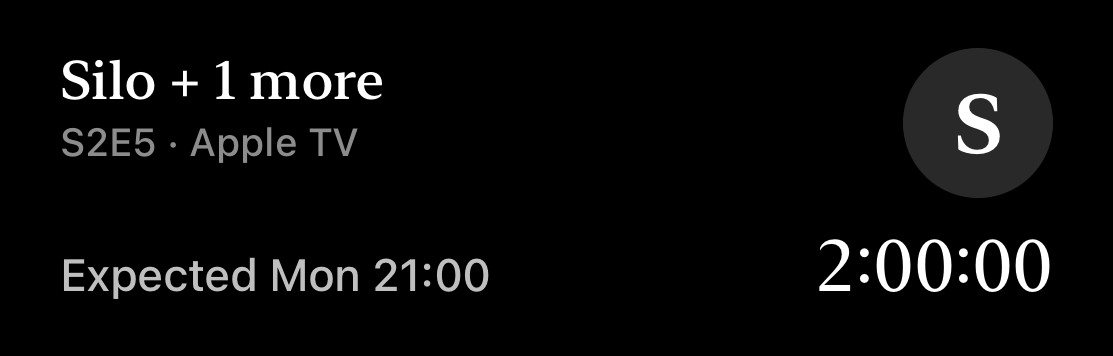
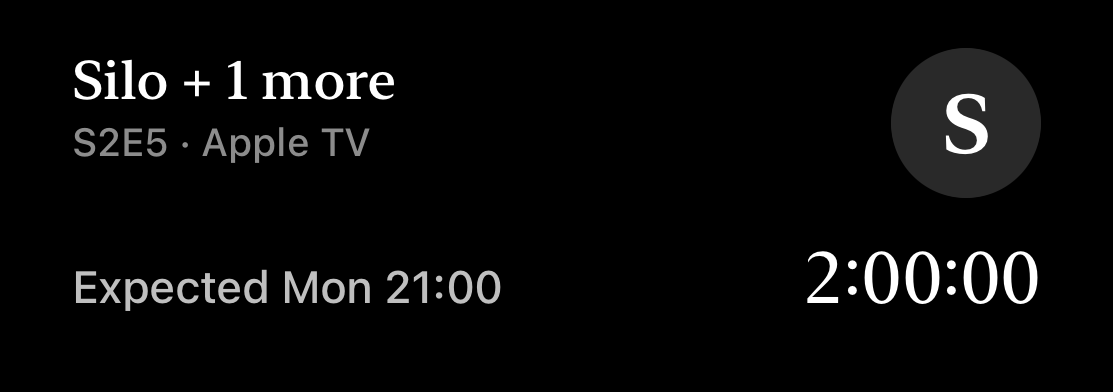
fix: the expanded island's bottom line lines up with the title and art; renders keep a clock that can't pass
Chime's iPhone showed the time and countdown 12 pt inside the title and art: the bottom region was inset 16 pt, the
top regions 4. The insets now live in LiveActivityExpandedView, all 4 pt, so the renders use them too.

The renders' fixed clock (2026-11-02T18:00Z) passed during the session: ImageRenderer draws a timer at its full
length only while the real clock is before it, so every timer render changed between runs (DesignSystemCopy caught
it). The clock is now Mon 2 Nov 2071 18:00Z; Silo's return date in the samples follows the clock instead of a fixed
2027 day.

diff --git a/design-system/index.html b/design-system/index.html
@@ -1243,7 +1243,7 @@ Section {
       <tr id="la-lock" data-search="lock screen banner live activity art edge" data-title="Lock Screen banner" data-kind="Live Activity"><td>Lock Screen banner</td><td>Padding 16 × 14. 112 pt kept clear on the right for the art (44% of the width, fading leftwards) or a faint initial. Title New York Medium 19 (with “+ 1 more” in 13 semibold) · details 13, muted · label 13 semibold, 12 above · countdown Light 36 · time line 13 medium, secondary</td></tr>
       <tr id="la-compact" data-search="compact dynamic island poster timer" data-title="Compact" data-kind="Live Activity"><td>Compact</td><td>Leading: a 24 poster mark, radius 6, or the initial on a white disc at 0.16. Trailing: the timer in New York Medium 15, at most 60 wide; “Out now” in SF semibold 14</td></tr>
       <tr id="la-minimal" data-search="minimal ring dynamic island" data-title="Minimal" data-kind="Live Activity"><td>Minimal</td><td>A 24 pt ring (stroke 2.5, track white at 0.18, fill white) that fills from the start to the drop, around a circular poster mark; full at “Out now”</td></tr>
-      <tr id="la-expanded" data-search="expanded dynamic island time words delayed" data-title="Expanded" data-kind="Live Activity"><td>Expanded</td><td>Leading: title New York Medium 18 over details 13 · trailing: art 50 × 50, radius 12 · bottom, laid out like an Upcoming row: the time in words (15 medium, “Expected Mon 21:00”, by weekday so it never goes stale) and the countdown Light 24 on its baseline at the right; “Delayed from 21:00” (13 medium, muted) under the words when the time moved; a gold “Out now” in the numbers’ place at the drop. No progress bar (D-57). 16 pt sides, so it clears the island’s corners</td></tr>
+      <tr id="la-expanded" data-search="expanded dynamic island time words delayed" data-title="Expanded" data-kind="Live Activity"><td>Expanded</td><td>Leading: title New York Medium 18 over details 13 · trailing: art 50 × 50, radius 12 · bottom, laid out like an Upcoming row: the time in words (15 medium, “Expected Mon 21:00”, by weekday so it never goes stale) and the countdown Light 24 on its baseline at the right; “Delayed from 21:00” (13 medium, muted) under the words when the time moved; a gold “Out now” in the numbers’ place at the drop. No progress bar (D-57). Every region is inset 4 pt from the island’s edge, so the bottom line’s words sit under the title and its countdown under the art</td></tr>
       <tr id="la-small" data-search="small family watch mac carplay" data-title="Small family" data-kind="Live Activity"><td>Small (Watch, Mac, CarPlay)</td><td>An 18 poster mark and title Medium 15 · label 11 semibold · countdown Light 24 · time line 11 medium; padding 12</td></tr>
     </tbody></table></div>
   <div class="tabs" role="tablist" aria-label="Live Activity presentation" id="la-tabs">

diff --git a/MeridianWidgets/DropLiveActivity.swift b/MeridianWidgets/DropLiveActivity.swift
@@ -20,23 +20,18 @@ struct DropLiveActivity: Widget {
             let hero = ActivityArt.hero(context.attributes)
             return DynamicIsland {
                 DynamicIslandExpandedRegion(.leading) {
+                    // Each region's insets live in the view, so the renders in LiveActivityLayoutTests use them too.
                     LiveActivityExpandedView(region: .leading, attributes: context.attributes, state: context.state,
                                              isStale: context.isStale)
                         .dynamicIsland(verticalPlacement: .belowIfTooWide)
-                        .padding(.leading, Tokens.Space.xxs)
                 }
                 DynamicIslandExpandedRegion(.trailing) {
                     LiveActivityExpandedView(region: .trailing, attributes: context.attributes, state: context.state,
                                              art: hero, poster: poster, isStale: context.isStale)
-                        .padding(.trailing, Tokens.Space.xxs)
                 }
                 DynamicIslandExpandedRegion(.bottom) {
-                    // Clear of the island's rounded bottom corners, which clipped the line's ends (Chime, 1 Nov).
                     LiveActivityExpandedView(region: .bottom, attributes: context.attributes, state: context.state,
                                              isStale: context.isStale)
-                        .padding(.horizontal, Tokens.Space.m)
-                        .padding(.top, Tokens.Space.xxs)
-                        .padding(.bottom, Tokens.Space.xs)
                 }
             } compactLeading: {
                 LiveActivityCompactView(slot: .leading, attributes: context.attributes, state: context.state,

diff --git a/Shared/LiveActivity/LiveActivityExpandedView.swift b/Shared/LiveActivity/LiveActivityExpandedView.swift
@@ -33,11 +33,17 @@ struct LiveActivityExpandedView: View {
                                                                     now: now, formatter: formatter))
     }
 
+    /// The island starts every region at the same edge, so equal side insets line the bottom line's words up under
+    /// the title and its countdown under the art (Chime, 2 Nov: the bottom's 16 against the top's 4 left them 12 pt in).
     @ViewBuilder private var content: some View {
         switch region {
-        case .leading: title
-        case .trailing: artwork
-        case .bottom: countdown
+        case .leading: title.padding(.leading, Tokens.Space.xxs)
+        case .trailing: artwork.padding(.trailing, Tokens.Space.xxs)
+        case .bottom:
+            countdown
+                .padding(.horizontal, Tokens.Space.xxs)
+                .padding(.top, Tokens.Space.xxs)
+                .padding(.bottom, Tokens.Space.xs)
         }
     }
 

diff --git a/MeridianTests/Widgets/WidgetRenderTests.swift b/MeridianTests/Widgets/WidgetRenderTests.swift
@@ -32,7 +32,11 @@ struct WidgetRenderTests {
         var inner: CGSize { CGSize(width: size.width - 2 * margin, height: size.height - 2 * margin) }
     }
 
-    static let now = Date(iso: "2026-11-02T18:00:00Z")
+    /// Mon 2 Nov 2071, 19:00 in Lagos: a Monday evening, as the samples were drawn for, and far in the future on
+    /// purpose. `ImageRenderer` draws a timer as its interval's length only while the real clock is before the
+    /// interval; once it passed 2026-11-02T18:00Z (the old `now`), every timer drew the real time left and no two runs
+    /// matched (2 Nov, found by `DesignSystemCopy`).
+    static let now = Date(iso: "2071-11-02T18:00:00Z")
     static let formatter = DropFormatter(zoneIdentifier: "Africa/Lagos", locale: Locale(identifier: "en_GB"))
     static let root = URL(fileURLWithPath: #filePath).deletingLastPathComponent().deletingLastPathComponent()
         .deletingLastPathComponent()

diff --git a/Shared/Widgets/WidgetSamples.swift b/Shared/Widgets/WidgetSamples.swift
@@ -49,7 +49,8 @@ enum WidgetSamples {
                              confidence: .dateOnly, source: .dateOnly, airdate: airdate(now + 9 * 24 * hour),
                              provider: ProviderLabel(name: "Disney+", countryCode: nil, noOfficialStream: false))
         let siloReturns = drop("silo", "Silo", season: 4, number: 1, at: now + 250 * 24 * hour,
-                               confidence: .dateOnly, source: .dateOnly, airdate: "2027-07-09", provider: silo.provider)
+                               confidence: .dateOnly, source: .dateOnly, airdate: airdate(now + 249 * 24 * hour),
+                               provider: silo.provider)
 
         let severance = drop("severance", "Severance", season: 3, number: 2, at: now + 4 * 24 * hour,
                              confidence: .estimated, source: .platformRule("Apple TV rule"), provider: silo.provider)

diff --git a/MeridianTests/LiveActivity/LiveActivityLayoutTests.swift b/MeridianTests/LiveActivity/LiveActivityLayoutTests.swift
@@ -13,8 +13,8 @@ import UIKit
 @MainActor
 @Suite("Live Activity layout")
 struct LiveActivityLayoutTests {
-    /// The same moment as `WidgetRenderTests.now`: Mon 2 Nov 2026, 19:00 in Lagos.
-    static let now = Date(iso: "2026-11-02T18:00:00Z")
+    /// `WidgetRenderTests.now`, far in the future so `ImageRenderer` draws each timer at its full length (see there).
+    static let now = WidgetRenderTests.now
     static let width: CGFloat = 360
     static let maxHeight: CGFloat = 160
     static let longestName = "The Lord of the Rings: The Rings of Power, Season Two Finale"

diff --git a/docs/DECISIONS.md b/docs/DECISIONS.md
@@ -56,7 +56,7 @@ These came from the research update in `RESEARCH.md` (29 Oct). Where an entry su
 | D-45 | **Supersedes the service-chip rule in D-43/D-44.** Search's service chips are a **fixed list of 12 major platforms, always shown in the same order**: Netflix, Prime Video, HBO Max (also holding HBO's own channel), Disney+, Paramount+, Hulu, Peacock, Apple TV (the big streamers by reported paid subscribers, 2026 estimates: ~325M, ~205M, ~140M, ~132M, ~79M, ~64M, ~46M; Apple TV publishes none), then CBS, NBC, ABC, FOX. A platform with nothing in the next few days keeps its chip and says "Nothing on Paramount+ in the next few days." Every other service (YouTube, BBC iPlayer, small channels) gets no chip; its shows still appear under Popular, Today, New seasons and Exact time. All 12 have logos, so the logo grouping of D-44 holds by construction. Code: `PopularServices`. | Chime (1 Nov 2026): "Can we remove YouTube… BBC iPlayer is not relevant… show the popular platforms that most people use", and asked for Paramount+. Picking the 6 services with the most shows this week let minor ones in and left Paramount+ out (nothing on it in the 3-day window), and made the row change from day to day. |
 | D-44 | **Service chips show the service's logo, and logo chips sit together.** Search's service filters (D-43) show the network's logo on a small white tile before its name, where one is known; within the 6 services with the most shows, those with a logo come first, then the rest, so logo and plain chips aren't mixed (Chime, 1 Nov 2026). Logos come from a hand-checked list of **freely licensed Wikimedia Commons files** (`rules/network-logos.json`: TVmaze names → file, licence, credit, image URL), loaded at runtime like posters and never committed as images (rule 9); Credits names Wikimedia and lists required credits. The **Netflix Top 10 link chip is dropped** (Chime: it only sends you to another site). Rejected: each network's own site icon (about half missing, some wrong: hulu.com serves the Disney+ icon, and it scrapes sites) and Google's favicon service (undocumented, a new third party). | Chime asked for logos "next to them… grouped together" and to remove the Netflix chip. A bundled list makes the grouping known before anything loads, so the row never reorders; Commons hosts only free files, so an open-source repo can point at them. |
 | D-43 | **Search filters and what "popular" means.** Before typing, Search shows popular shows airing in the next few days, with filters, **one at a time** like the TV | Anime switch (Chime, 1 Nov): **Popular** (default), **Today**, **New seasons**, **Exact time known** (TV) and a **Service** (TV). They narrow only that grid, not typed results. Popularity is, for now, **TVmaze `weight`** (TV) and **AniList popularity** (anime), worked out on the phone. Instead of the planned bundled list (blocked 1 Nov by Netflix's terms, O-13), a **"Top 10 on Netflix in <country>"** link chip that opens Netflix's own chart (Chime, 1 Nov; D6-9). Originally planned: a **"Top 10 on Netflix in Nigeria"** chip from **Netflix's official weekly Top 10 by country**, built offline by a script into a bundled file (fetched only once the repo is public, D-34). Rejected: Trakt or TMDB trending (they need a key in a public repo, D-06; TMDB is non-commercial only) and scraping FlixPatrol or JustWatch (SPEC non-goal). | Chime (31 Oct 2026) wants popular shows easy to reach, judged by "consensus from reliable sources". With no server, no keys and no scraping, the phone can't gather that consensus itself. Free scores ship now; an official, local chart is the closest honest consensus and fits "outside the US first" (D-17). TVmaze doesn't document what `weight` measures, so the free ranking is one site's audience, not a consensus. |
-| D-57 | **The expanded Dynamic Island loses its progress bar and big countdown (Chime, 2 Nov; unslop pass).** Under the title and art, one line laid out like Upcoming's rows: the time in words on the left ("Expected Wed 23:00", as the Lock Screen's time line; "Released"/"Aired in Japan" at the drop; a weekday rather than "today", because the island isn't redrawn at midnight and "tomorrow" would go stale), the countdown on the right at the rows' 24 pt (was 34), and "Delayed from 22:00" / "Moved from 03:00" in words under the time instead of a struck-through time. A gold "Out now" replaces the numbers at the drop. `LiveActivityBar` is gone; the minimal island keeps its ring. The Live Activity renders now use a fixed clock (2 Nov 18:00Z, like the widgets'), and every widget and Live Activity render must equal the design system's copy (`DesignSystemCopy`; `scripts/sync-design-system-renders.sh` updates the site). | Chime couldn't tell what the bar meant: it filled from whenever the activity started, a picture with no words (against D-40), repeating the countdown. The 34 pt timer beside a 14 pt label out-shouted the show's name. Chime asked that the design system and the app never differ; a test is the only thing that keeps that true. |
+| D-57 | **The expanded Dynamic Island loses its progress bar and big countdown (Chime, 2 Nov; unslop pass).** Under the title and art, one line laid out like Upcoming's rows: the time in words on the left ("Expected Wed 23:00", as the Lock Screen's time line; "Released"/"Aired in Japan" at the drop; a weekday rather than "today", because the island isn't redrawn at midnight and "tomorrow" would go stale), the countdown on the right at the rows' 24 pt (was 34), and "Delayed from 22:00" / "Moved from 03:00" in words under the time instead of a struck-through time. A gold "Out now" replaces the numbers at the drop. `LiveActivityBar` is gone; the minimal island keeps its ring. The Live Activity renders now share the widgets' fixed clock, Mon 2 Nov 2071 18:00Z (far ahead on purpose: `ImageRenderer` draws a timer at its full length only while the real clock is before it, so the old 2026 date broke every render at 19:00 Lagos on 2 Nov), and every widget and Live Activity render must equal the design system's copy (`DesignSystemCopy`; `scripts/sync-design-system-renders.sh` updates the site). | Chime couldn't tell what the bar meant: it filled from whenever the activity started, a picture with no words (against D-40), repeating the countdown. The 34 pt timer beside a 14 pt label out-shouted the show's name. Chime asked that the design system and the app never differ; a test is the only thing that keeps that true. |
 | D-56 | **Supersedes D-51's ticking beyond a day: only the last day ticks (Chime, 2 Nov).** Within 24 h (remaining ≤ 86 400 s) a countdown ticks to the second (`Text(timerInterval:countsDown:)`, no `pauseTime`, D-52). Further out it is a still "4d 4h": whole hours rounded down and split into days and hours, both always shown ("1d 0h"), units smaller and dimmer; spoken "4 days 4 hours", a zero part left out ("1 day"). Everywhere a countdown is drawn: the app, the Home Screen widgets and the inline and rectangular Lock Screen widgets; the circular widget keeps "2d" / "4h", and the Live Activity (lead time at most 6 h) always ticks. Widget timelines add an exact entry 24 h before each of the next 5 drops, and refreshes beyond the last day land 1 s after the hour, so a rounded-down count never lags an hour behind. `daySplit` is gone. | Chime wanted the countdown to tick only when the drop is close; a ticking "4d 4:10:22" was noise days out. A row other than the widget's hero can still read an hour high for up to an hour (its hourly refreshes follow the hero only), as before D-51. |
 | D-55 | **Welcome gets a drifting wall of show art (Chime's picks, 2 Nov: Mindvalley, Nike, HBO Max).** Three staggered rows (128, 172, 128 pt) of TV posters, anime covers, a few anime banners and TVmaze key art for the top three TV shows, alternating TV and anime, drift at 9 pt/s in alternating directions and fade out into the night above the headline, dimmed 18%. The headline, zone line and buttons keep their words and sit at the bottom. The art is the shows airing in the next few days (the same TVmaze and AniList calls Search makes, so they are cached for it), fetched at runtime (D-37). With fewer than 9 pictures, offline or on error, Welcome is the plain night it was. Still under Reduce Motion; hidden from VoiceOver. | Chime found Welcome "too bland" and asked for posters; of 25 design references they picked Mindvalley's staggered rows, Nike's mix of tall and wide pictures, and HBO's collage with anime in it. |
 | D-54 | **Supersedes D-01: the app, repo and code are Meridian (Chime, 2 Nov).** Display name, targets, folders, schemes and modules are `Meridian`, `MeridianWidgets`, `MeridianTests` and `MeridianUITests`; the bundle ID is `dev.chime.meridian` and the App Group `group.dev.chime.meridian`; the GitHub repo is `ChimeXXD/meridian`. The app icon is the Longitudes mark on Night Sky's neutral night with a gold star (D-53), in the default, dark and tinted appearances (`scripts/make-app-icon.swift`). TVmaze's `airstamp` field keeps its name: it is the API's, not ours. Commit history keeps the old name. | Chime chose Meridian over Airstamp (1 Nov) and asked for every trace of the old name to go. A new bundle ID makes the phone treat Meridian as a new app, so followed shows and widgets are set up again once; Chime accepted that. |

diff --git a/PROGRESS.md b/PROGRESS.md
@@ -27,7 +27,7 @@ Build log for the one-week plan (`docs/PLAN.md`). Newest entry first.
   - Weekday, not "today": the verifier caught that "tomorrow" would go stale after midnight, because the island isn't redrawn.
   - `LiveActivityBar` deleted; `ReleaseWording.pastVerb` added.
 - **Sync check (Chime OK'd):**
-  - The Live Activity renders use a fixed clock (2 Nov 18:00Z), like the widgets'.
+  - The Live Activity renders share the widgets' fixed clock, moved to Mon 2 Nov 2071 18:00Z: `ImageRenderer` draws a timer at its full length only while the real clock is before it, and the old 2026-11-02T18:00Z passed during the session (the copy check caught every timer render changing).
   - Every render must equal the site's copy (`MeridianTests/Support/DesignSystemCopy.swift`).
   - `scripts/sync-design-system-renders.sh` re-renders in sync mode (skips only the copy check) and copies only this run's renders. It lists site pictures no render made.
   - Red: 49 issues, exactly the changed Live Activity renders. Green twice in a row, so the renders are deterministic. A deliberately broken site PNG was restored by the script.
